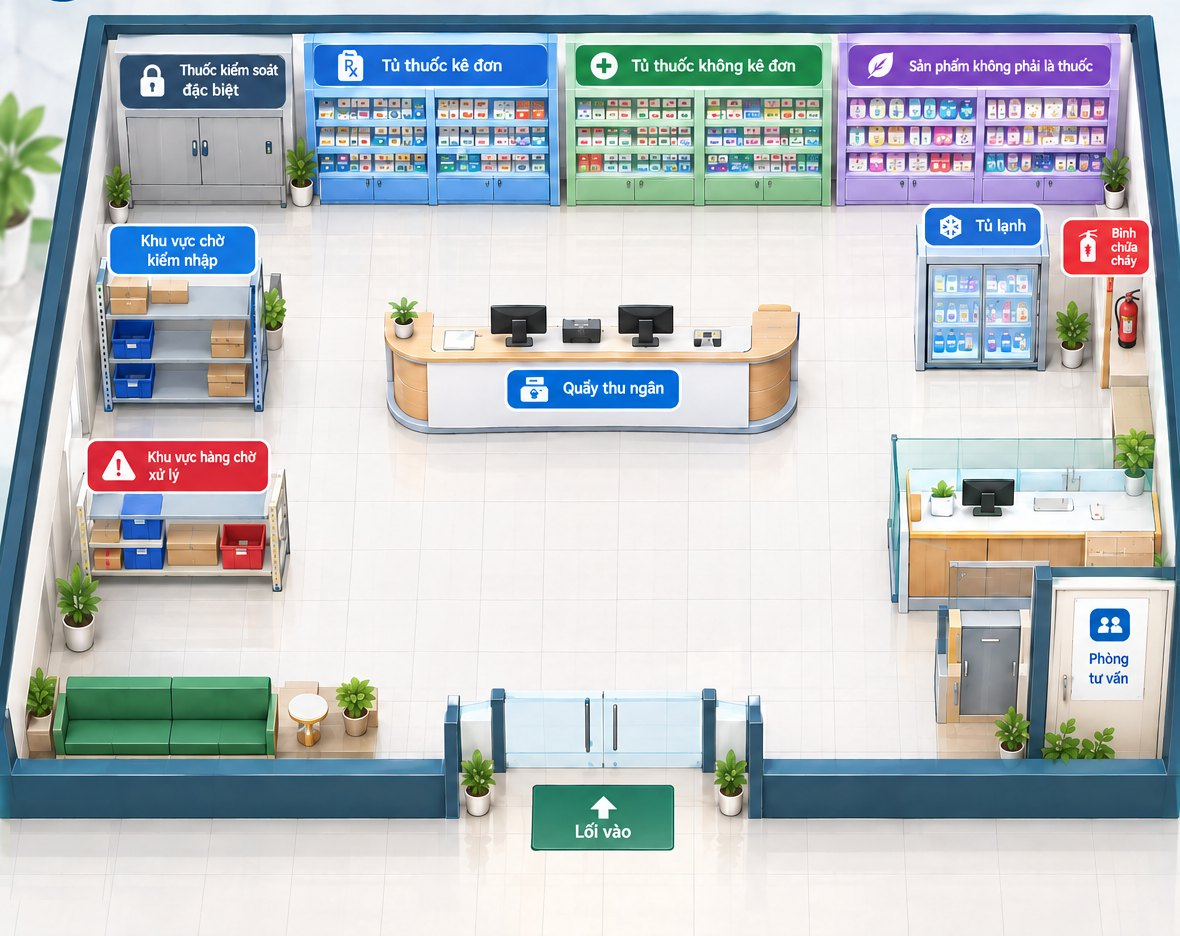
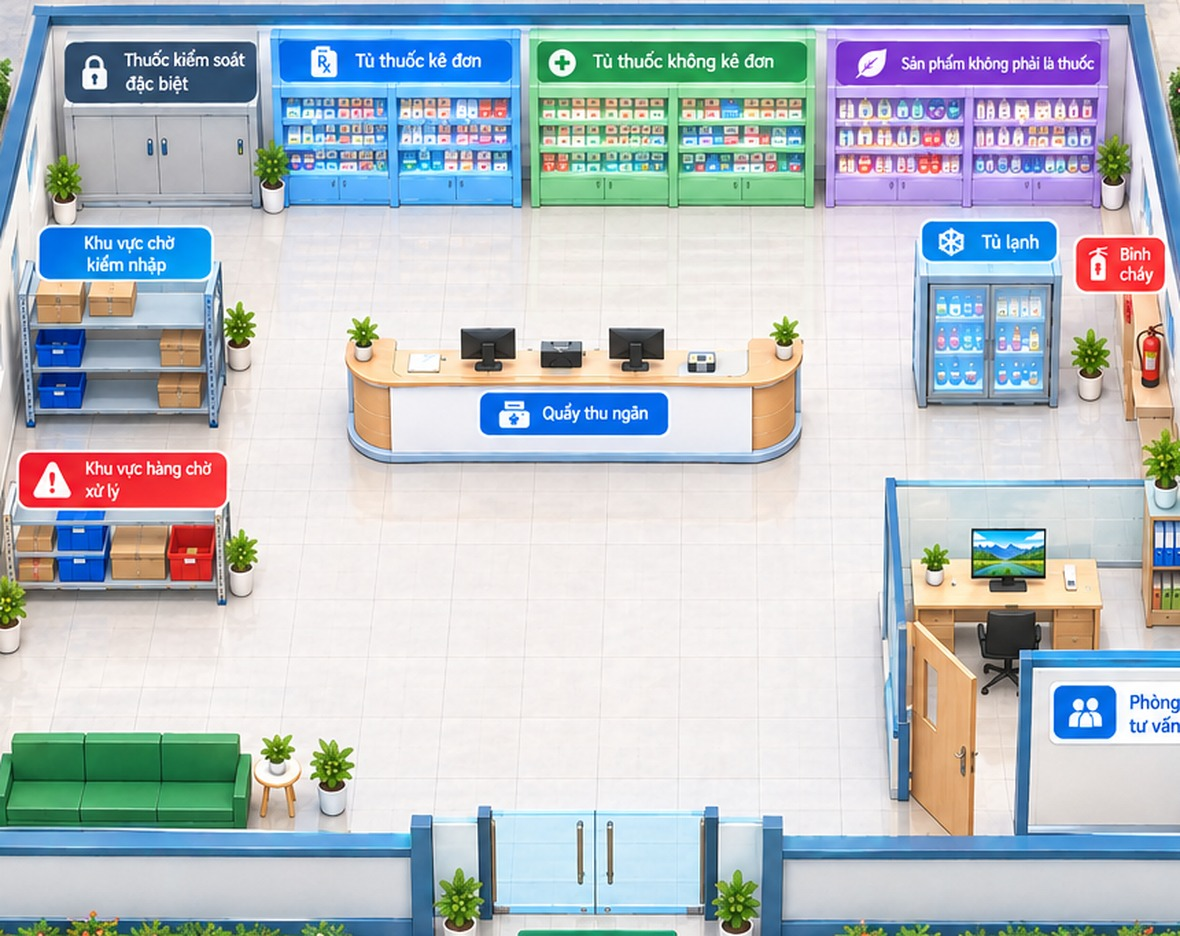
feat(gpp): thay ảnh sơ đồ nhà thuốc bằng bản mới giảng viên gửi lại (req #164)
Ảnh mới thêm cảnh quan xung quanh (cây xanh, ghế đá, đèn đường) cho nhà thuốc
nhìn sống động hơn; layout bên trong giữ nguyên nên chỉ crop lại + nudge vài
vùng bấm (tủ Rx/OTC/SP không phải thuốc, tủ lạnh, bình chữa cháy) cho khớp
đúng vị trí trên ảnh mới.

diff --git a/public/tu-thuoc-mo-phong.html b/public/tu-thuoc-mo-phong.html
@@ -1170,14 +1170,14 @@
     <!-- req #164: nền là sơ đồ nhà thuốc do giảng viên gửi; mỗi khu là một vùng bấm trong suốt
          đặt đè đúng vị trí (toạ độ theo ảnh 1180×936). -->
     <div class="pm-zone z-special" data-zone="info" data-name="Tủ thuốc kiểm soát đặc biệt (có khóa): thuốc gây nghiện, hướng thần, tiền chất" data-short="Thuốc kiểm soát đặc biệt" data-ico="🔒" title="Thuốc kiểm soát đặc biệt" style="left:112px;top:30px;width:182px;height:180px;"></div>
-    <div class="pm-zone z-rx" data-zone="tu-rx" data-name="Tủ thuốc kê đơn (Rx) — bấm để sắp xếp thuốc vào tủ" data-short="Tủ thuốc kê đơn" data-ico="℞" title="Tủ thuốc kê đơn" style="left:302px;top:30px;width:260px;height:182px;"></div>
-    <div class="pm-zone z-otc" data-zone="tu-otc" data-name="Tủ thuốc không kê đơn (OTC) — bấm để sắp xếp thuốc vào tủ" data-short="Tủ thuốc không kê đơn" data-ico="✚" title="Tủ thuốc không kê đơn" style="left:566px;top:30px;width:268px;height:182px;"></div>
-    <div class="pm-zone z-nondrug" data-zone="info" data-name="Sản phẩm không phải là thuốc (mỹ phẩm, vật tư y tế, TPCN, chăm sóc cá nhân)" data-short="Sản phẩm không phải thuốc" data-ico="🧴" title="Sản phẩm không phải thuốc" style="left:838px;top:30px;width:282px;height:182px;"></div>
+    <div class="pm-zone z-rx" data-zone="tu-rx" data-name="Tủ thuốc kê đơn (Rx) — bấm để sắp xếp thuốc vào tủ" data-short="Tủ thuốc kê đơn" data-ico="℞" title="Tủ thuốc kê đơn" style="left:300px;top:30px;width:255px;height:182px;"></div>
+    <div class="pm-zone z-otc" data-zone="tu-otc" data-name="Tủ thuốc không kê đơn (OTC) — bấm để sắp xếp thuốc vào tủ" data-short="Tủ thuốc không kê đơn" data-ico="✚" title="Tủ thuốc không kê đơn" style="left:555px;top:30px;width:255px;height:182px;"></div>
+    <div class="pm-zone z-nondrug" data-zone="info" data-name="Sản phẩm không phải là thuốc (mỹ phẩm, vật tư y tế, TPCN, chăm sóc cá nhân)" data-short="Sản phẩm không phải thuốc" data-ico="🧴" title="Sản phẩm không phải thuốc" style="left:810px;top:30px;width:290px;height:182px;"></div>
     <div class="pm-zone z-receive" data-zone="info" data-name="Khu vực chờ kiểm nhập (hàng mới về, chờ kiểm tra)" data-short="Khu vực chờ kiểm nhập" data-ico="📦" title="Khu vực chờ kiểm nhập" style="left:92px;top:218px;width:178px;height:196px;"></div>
     <div class="pm-zone z-process" data-zone="info" data-name="Khu vực hàng chờ xử lý (hàng cận hạn, hỏng, thu hồi, hủy bỏ)" data-short="Khu vực hàng chờ xử lý" data-ico="⚠" title="Khu vực hàng chờ xử lý" style="left:78px;top:436px;width:214px;height:160px;"></div>
     <div class="pm-zone z-cashier" data-zone="info" data-name="Quầy thu ngân: máy tính, máy quét mã vạch, máy in hóa đơn" data-short="Quầy thu ngân" data-ico="💵" title="Quầy thu ngân" style="left:384px;top:296px;width:418px;height:140px;"></div>
-    <div class="pm-zone z-fridge" data-zone="info" data-name="Tủ lạnh (bảo quản 2–8°C: vắc xin, insulin…)" data-short="Tủ lạnh" data-ico="❄" title="Tủ lạnh" style="left:912px;top:200px;width:136px;height:176px;"></div>
-    <div class="pm-zone z-fire" data-zone="info" data-name="Bình chữa cháy" data-short="Bình chữa cháy" data-ico="🧯" title="Bình chữa cháy" style="left:1056px;top:212px;width:98px;height:144px;"></div>
+    <div class="pm-zone z-fridge" data-zone="info" data-name="Tủ lạnh (bảo quản 2–8°C: vắc xin, insulin…)" data-short="Tủ lạnh" data-ico="❄" title="Tủ lạnh" style="left:895px;top:200px;width:150px;height:176px;"></div>
+    <div class="pm-zone z-fire" data-zone="info" data-name="Bình chữa cháy" data-short="Bình chữa cháy" data-ico="🧯" title="Bình chữa cháy" style="left:1055px;top:212px;width:120px;height:150px;"></div>
     <div class="pm-zone z-dispense" data-zone="info" data-name="Khu vực ra lẻ thuốc" data-short="Khu vực ra lẻ thuốc" data-ico="⚖" title="Khu vực ra lẻ thuốc" style="left:888px;top:432px;width:272px;height:140px;"></div>
     <div class="pm-zone z-consult" data-zone="info" data-name="Phòng tư vấn" data-short="Phòng tư vấn" data-ico="🧑⚕" title="Phòng tư vấn" style="left:1036px;top:574px;width:140px;height:190px;"></div>
     <div class="pm-zone z-wait" data-zone="info" data-name="Khu vực ghế chờ cho khách" data-short="Ghế chờ" data-ico="🛋" title="Ghế chờ" style="left:46px;top:670px;width:338px;height:96px;"></div>
